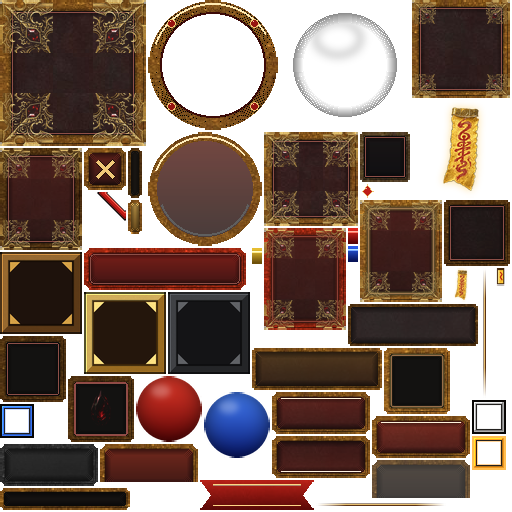
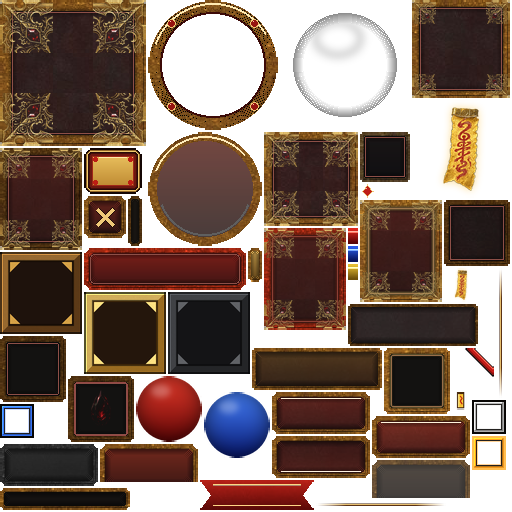
art(lingfu): 灵符商城图标 7 张 64×64 + ui_atlas 帧 lingfu_entry（47 帧）+ 预览

diff --git a/docs/ui-preview/build_lingfu.py b/docs/ui-preview/build_lingfu.py
@@ -1,0 +1,51 @@
+"""灵符商城图标：64×64 单图（public/assets/icons/）+ ui_atlas 帧 lingfu_entry（九宫格 56×44，拉伸到 88×44/52×44）。源图 src/lf_*_src.jpg（GenerateImage 原创，黑底）。"""
+from PIL import Image,ImageDraw,ImageFilter,ImageEnhance;import numpy as np,json,os
+H=os.path.dirname(os.path.abspath(__file__));os.chdir(H);OUT='../../public/assets/icons';os.makedirs(OUT,exist_ok=True)
+def key(im,t0=18,t1=70):
+    a=np.asarray(im.convert('RGB')).astype(float);m=a.max(2);al=np.clip((m-t0)/(t1-t0),0,1)
+    rgb=np.clip(a/np.maximum(al[...,None],1e-3)*np.minimum(al[...,None]*1.0,1),0,255)  # 去黑底预乘
+    rgb=np.where(al[...,None]>0,np.clip(a/np.maximum(al[...,None],0.25),0,255),0)
+    return Image.fromarray(np.dstack([rgb,al*255]).astype('uint8'),'RGBA')
+def fit(im,scale=1.0,S=64,pad=2,th=24):
+    bb=im.getchannel('A').point(lambda v:255 if v>th else 0).getbbox();im=im.crop(bb)
+    box=(S-2*pad)*scale;k=box/max(im.size);im=im.resize((max(1,round(im.width*k)),max(1,round(im.height*k))),Image.LANCZOS)
+    rgb=ImageEnhance.Sharpness(im.convert('RGB')).enhance(1.6);im=Image.merge('RGBA',(*rgb.split(),im.getchannel('A')))
+    c=Image.new('RGBA',(S,S));c.paste(im,((S-im.width)//2,S-pad-im.height if scale<1 else (S-im.height)//2),im);return c
+def shadow(c):
+    a=c.getchannel('A').filter(ImageFilter.GaussianBlur(1.5));sh=Image.new('RGBA',c.size,(0,0,0,0));sh.putalpha(a.point(lambda v:int(v*0.7)))
+    o=Image.new('RGBA',c.size);o.alpha_composite(sh,(1,1));o.alpha_composite(c);return o
+res={}
+for n,f in [('shop_summon_scroll','lf_scroll'),('shop_return_stone','lf_return'),('shop_skill_necklace','lf_necklace')]:
+    src=Image.open(f'src/{f}_src.jpg')
+    if f=='lf_necklace':src=src.crop((200,250,824,980))  # 只留吊坠+短链，避免缩小后太细
+    c=shadow(fit(key(src),1.0));c.save(f'{OUT}/{n}.png',optimize=True);res[n]=c
+# 血石 4 档：按列空隙切分，体积递增 + 色深递增
+st=key(Image.open('src/lf_stones_src.jpg'),22,80);a=np.asarray(st)[...,3];col=(a>40).sum(0)>3
+segs=[];i=0
+while i<len(col):
+    if col[i]:
+        j=i
+        while j<len(col) and col[j]:j+=1
+        if j-i>20:segs.append((i,j))
+        i=j
+    else:i+=1
+assert len(segs)==4,segs
+for (x0,x1),n,s in zip(segs,['s','m','l','xl'],[0.56,0.72,0.86,1.0]):
+    c=shadow(fit(st.crop((max(0,x0-30),0,min(st.width,x1+30),st.height)),s,th=200 if n=='xl' else 24));c.save(f'{OUT}/bloodstone_{n}.png',optimize=True);res['bloodstone_'+n]=c
+# lingfu_entry 九宫格：暗红漆底 + 金边 + 黄符纸芯，四角朱砂符点
+# 88 放不下 512 图集；九宫格横向拉到 88
+W,Hh=56,44;e=Image.new('RGBA',(W,Hh));d=ImageDraw.Draw(e)
+d.rounded_rectangle((0,0,W-1,Hh-1),7,fill=(40,10,8,255),outline=(20,6,4,255))
+d.rounded_rectangle((1,1,W-2,Hh-2),6,outline=(150,105,40,255),width=1)
+d.rounded_rectangle((2,2,W-3,Hh-3),5,outline=(240,200,110,255),width=1)
+d.rounded_rectangle((4,4,W-5,Hh-5),3,fill=(110,24,16,255),outline=(70,14,10,255))
+paper=Image.new('RGBA',(W-14,Hh-14));g=np.linspace(0,1,paper.height)[:,None]
+arr=np.zeros((paper.height,paper.width,4));arr[...,0]=232-40*g;arr[...,1]=190-50*g;arr[...,2]=92-40*g;arr[...,3]=255
+paper=Image.fromarray(arr.astype('uint8'),'RGBA');e.paste(paper,(7,7))
+d.rectangle((7,7,W-8,Hh-8),outline=(160,40,24,255))
+for x,y in [(10,10),(W-11,10),(10,Hh-11),(W-11,Hh-11)]:d.ellipse((x-2,y-2,x+2,y+2),fill=(190,30,20,255))
+d.line((14,8,W-15,8),fill=(255,236,170,255))
+os.makedirs('slices',exist_ok=True);e.save('slices/lingfu_entry.png',optimize=True)
+sp=json.load(open('slices.json'));sp['lingfu_entry']={'w':W,'h':Hh,'left':18,'right':18,'top':14,'bottom':14,'use':'灵符商城常驻入口按钮（源 56×44，桌面 setSize 88×44；手机 DOM 52×44 CSS，border-image 18/14）；中间叠 lingfu_icon_s + 文字','fixed':False,'dom':True}
+json.dump(sp,open('slices.json','w'),ensure_ascii=False,indent=1)
+for n,c in res.items():print(n,c.size,os.path.getsize(f'{OUT}/{n}.png'))

diff --git a/docs/ui-preview/compose_lingfu.py b/docs/ui-preview/compose_lingfu.py
@@ -1,0 +1,33 @@
+"""预览：灵符商城图标原尺寸 / goods_slot 内 1280×720 与 844×390 / 血石四档对比 / lingfu_entry 拉伸。"""
+from PIL import Image,ImageDraw,ImageFont;import os,glob
+H=os.path.dirname(os.path.abspath(__file__));os.chdir(H);I='../../public/assets/icons/'
+F=lambda s:ImageFont.truetype(next(iter(glob.glob('/usr/share/fonts/**/*CJK*.tt*',recursive=True)+glob.glob('/usr/share/fonts/**/*.tt*',recursive=True))),s)
+N=['shop_summon_scroll','shop_return_stone','shop_skill_necklace','bloodstone_s','bloodstone_m','bloodstone_l','bloodstone_xl']
+CN=['召唤直升卷轴','回城石','技巧项链','血石(小)','血石(中)','血石(大)','血石(特)']
+ic={n:Image.open(I+n+'.png') for n in N};slot=Image.open('slices/goods_slot_normal.png');ent=Image.open('slices/lingfu_entry.png');lf=Image.open('slices/lingfu_icon_s.png')
+bg=Image.open('src/tex_dark_256.jpg').convert('RGBA')
+cv=Image.new('RGBA',(1300,820));[cv.paste(bg,(x,y)) for x in range(0,1300,256) for y in range(0,820,256)];d=ImageDraw.Draw(cv)
+def T(x,y,s,sz=16,c=(255,224,112)):d.text((x,y),s,font=F(sz),fill=c)
+def nine(im,w,h,l,r,t,b):
+    o=Image.new('RGBA',(w,h));W,Hh=im.size
+    for (sx0,sx1,dx0,dx1) in [(0,l,0,l),(l,W-r,l,w-r),(W-r,W,w-r,w)]:
+        for (sy0,sy1,dy0,dy1) in [(0,t,0,t),(t,Hh-b,t,h-b),(Hh-b,Hh,h-b,h)]:
+            o.paste(im.crop((sx0,sy0,sx1,sy1)).resize((dx1-dx0,dy1-dy0)),(dx0,dy0))
+    return o
+T(20,10,'1) 原尺寸 64×64',20)
+for k,n in enumerate(N):cv.alpha_composite(ic[n],(20+k*120,40));T(20+k*120,108,CN[k],14,(220,220,220))
+T(20,140,'2) goods_slot 1280×720（80×80 槽，图标 64）',20)
+for k,n in enumerate(N):x=20+k*100;cv.alpha_composite(slot,(x,170));cv.alpha_composite(ic[n],(x+8,178))
+T(20,265,'3) goods_slot 844×390（×0.54：槽 43，图标 35）',20)
+s2=slot.resize((43,43),Image.LANCZOS)
+for k,n in enumerate(N):x=20+k*56;cv.alpha_composite(s2,(x,295));cv.alpha_composite(ic[n].resize((35,35),Image.LANCZOS),(x+4,299))
+T(20,355,'4) 血石四档并排：64 / 48 / 40',20)
+for r,sz in enumerate([64,48,40]):
+    for k,n in enumerate(N[3:]):cv.alpha_composite(ic[n].resize((sz,sz),Image.LANCZOS),(20+k*(sz+16)+r*330,390))
+T(20,470,'5) lingfu_entry 九宫格（源 56×44）→ 桌面 88×44、手机 52×44；原尺寸',20)
+for k,w in enumerate([88,52,56]):
+    x=20+k*130;cv.alpha_composite(nine(ent,w,44,18,18,14,14),(x,505));cv.alpha_composite(lf.resize((20,20)),(x+8 if w>60 else x+16,517))
+    if w>60:T(x+32,515,'灵符',16,(110,20,10))
+T(20,570,'6) 放大 ×3 细节',20)
+for k,n in enumerate(N):cv.alpha_composite(ic[n].resize((160,160),Image.NEAREST),(20+k*180,600))
+cv.convert('RGB').save('preview_lingfu_icons.jpg',quality=90);print('ok')

diff --git a/docs/ui-preview/build_dom2x.py b/docs/ui-preview/build_dom2x.py
@@ -1,7 +1,7 @@
 """手机 DOM（MobileHud CSS border-image）用单图：1x 原图 + @2x（LANCZOS 2× 放大 + 轻锐化；非重绘）。"""
 from PIL import Image,ImageFilter;import json,os,shutil
 H=os.path.dirname(os.path.abspath(__file__));os.chdir(H);sp=json.load(open('slices.json'))
-DOM=['btn_normal','btn_hover','btn_pressed','btn_disabled','btn_close','bar_frame','bar_fill_hp','bar_fill_mp','bar_fill_exp','touch_round','panel_frame_s','tooltip_frame','dialog_frame','list_row','list_row_sel','tab_on','tab_off']
+DOM=['btn_normal','btn_hover','btn_pressed','btn_disabled','btn_close','bar_frame','bar_fill_hp','bar_fill_mp','bar_fill_exp','touch_round','panel_frame_s','tooltip_frame','dialog_frame','list_row','list_row_sel','tab_on','tab_off','lingfu_entry']
 os.makedirs('dom/2x',exist_ok=True);[os.remove(f'dom/{f}') for f in os.listdir('dom') if f.endswith('.png')];css=[];tot1=tot2=0
 for n in DOM:
     i=Image.open(f'slices/{n}.png').convert('RGBA')

diff --git a/docs/ui-art-plan.md b/docs/ui-art-plan.md
@@ -347,3 +347,23 @@ slice 顺序是 上 右 下 左（T R B L），值取自 slices.json。也可以
 2. 改 loader.ts `assetUrl()` 的正则映射 .webp；json 不压缩。
 3. 在 TitleScene preload 一次加载。
 4. DOM 单图和 @2x 由构建一起压成 webp，参数同上。
+
+
+## 灵符商城图标（第六轮，art/lingfu-icons，基于 feat/lingfu-shop）
+按 docs/art-requests.md「灵符商城缺图」清单交付（共 8 项）。源图为 GenerateImage 原创黑底图（docs/ui-preview/src/lf_*_src.jpg），build_lingfu.py 抠成透明底、缩放、锐化、加 1px 投影；无魔兽系列素材。
+
+| key / 帧名 | 文件 | 尺寸 | 用法 | 体积 |
+|---|---|---|---|---|
+| summon_lv7_scroll | public/assets/icons/shop_summon_scroll.png | 64×64 | 召唤直升卷轴（金头卷轴+红色召唤阵） | 7,050 B |
+| return_stone | public/assets/icons/shop_return_stone.png | 64×64 | 回城石（蓝白漩涡石+金扣） | 7,343 B |
+| skill_necklace | public/assets/icons/shop_skill_necklace.png | 64×64 | 技巧项链（绿宝石+金书纹吊坠） | 7,178 B |
+| stone_s | public/assets/icons/bloodstone_s.png | 64×64 | 血石（小）：粉红哑光原石，最小 | 3,141 B |
+| stone_m | public/assets/icons/bloodstone_m.png | 64×64 | 血石（中）：亮红刻面+金爪 | 5,212 B |
+| stone_l | public/assets/icons/bloodstone_l.png | 64×64 | 血石（大）：深红+华丽金托+高光 | 6,143 B |
+| stone_x | public/assets/icons/bloodstone_xl.png | 64×64 | 血石（特）：暗血红+黑金托+红色光焰，最大 | 7,412 B |
+| lingfu_entry（ui_atlas 帧） | docs/ui-preview/slices/lingfu_entry.png；DOM dom/2x/lingfu_entry@2x.png | 源 56×44，九宫格 L/R 18、T/B 14，fixed=false | 右下常驻入口：桌面 add.nineslice→setSize(88,44)；手机 #mh-shop 52×44 CSS，border-image 用 @2x（slice 36/28）。中间叠 lingfu_icon_s + 「灵符」字 | 549 B / @2x 6,176 B |
+
+血石四档靠体积（0.56/0.72/0.86/1.0）、颜色（粉→亮红→深红→暗血红）、托座（无→金爪→金托→黑金光焰）区分，40px 下仍可分（见预览第 4 行）。灵符货币图标沿用现有 lingfu_icon_xs/s/l，本轮未改。
+
+图集：入口按 88×44 放不进 512×512（所有 rectpack 算法/排序都试过），改为源 56×44 横向拉伸。重建后 **47 帧**，512×512，PNG 265,336 B，WebP 无损 175,958 B，q90 74,708 B，json 12,864 B；逐像素自检通过。DOM @2x 现为 18 张。图集已满（used_h 510），再加帧需拆 ui_atlas_2。
+预览：docs/ui-preview/preview_lingfu_icons.jpg（原尺寸、goods_slot 1280×720 与 844×390、血石 64/48/40 对比、入口拉伸、×3 细节）。
